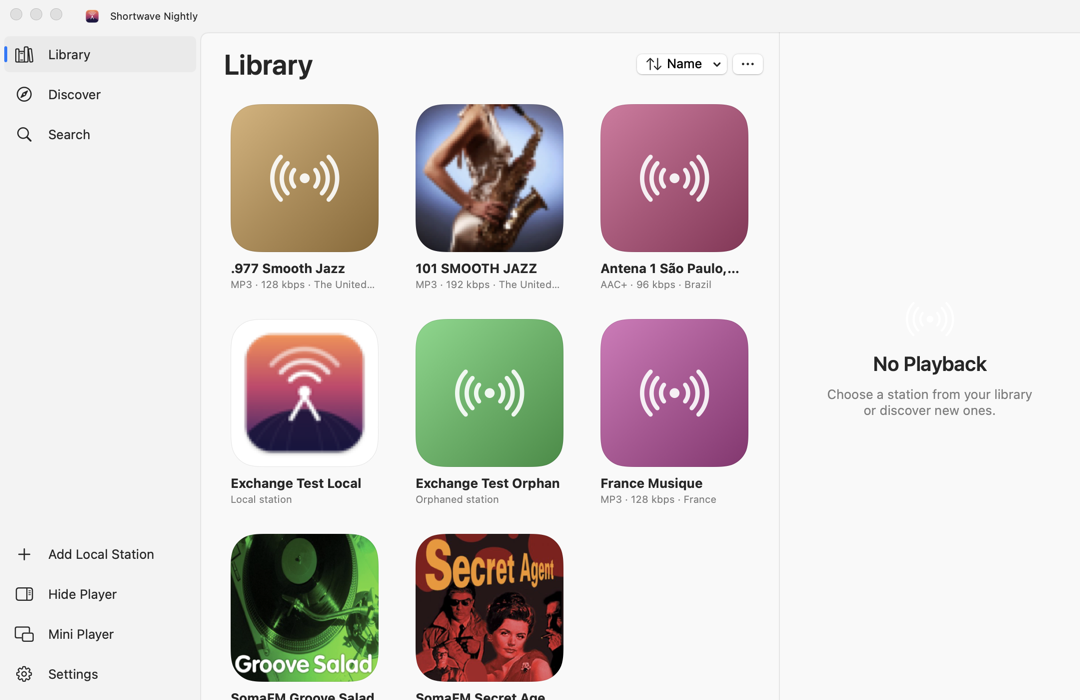
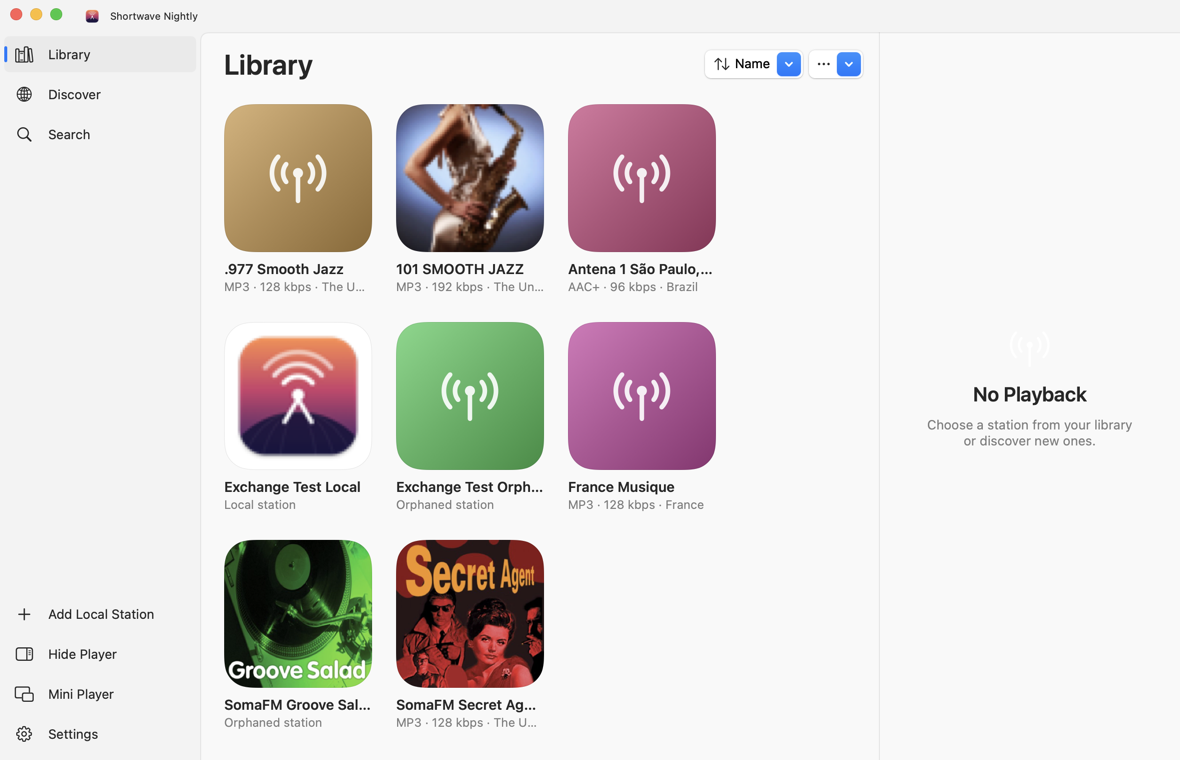
Mac design round 2 from the Windows review; library refresh race fix
From the Windows session's review (docs/MAC-WINDOWS-SYNC.md, "Mac: response to the review"):
- antenna glyph for placeholders and empty states, with tertiary glyph colour
- globe for Discover
- fixed 164-wide cards with 8/12 gaps, aligned to the leading edge; names 14 semibold
- large header and filter controls, and a chevron on More
- accent fill using WinUI's dark-mode rule (lighter shade, black glyph); accent-tinted volume slider
- an Add Local Station sheet title; a 640-wide station details sheet
- a mini player fitted to its content (92 pt)
- Screenshot runs draw at 1180×760 with the window active, then put the shared window frame back.
- refreshLibrary only updates the stations it asked about, so stations imported while the request
  was out aren't marked orphaned (the same fix as on Windows).
- The Mac now reads windows-export.json: readsWindowsExport passes, and exchange-test.sh imports it
  into the real app (3 stations, 1 cover).

Claude-Session: https://claude.ai/code/session_01T34dYzQtMW3DgCzMFdBgwc

diff --git a/Sources/Shortwave/Views/PlayerViews.swift b/Sources/Shortwave/Views/PlayerViews.swift
@@ -40,7 +40,7 @@ struct PlayerPanel: View {
                 .frame(maxWidth: .infinity)
             }
         } else {
-            EmptyState(symbol: "dot.radiowaves.left.and.right", title: "No Playback",
+            EmptyState(symbol: "antenna.radiowaves.left.and.right", title: "No Playback",
                        text: "Choose a station from your library or discover new ones.")
                 .frame(maxWidth: 260)
                 .frame(maxWidth: .infinity)
@@ -82,13 +82,13 @@ struct PlaybackControls: View {
             // Accent-filled round button, like the Windows app's.
             Button { player.togglePlayback() } label: {
                 ZStack {
-                    Circle().fill(player.station == nil ? AnyShapeStyle(.quaternary) : AnyShapeStyle(.tint))
+                    Circle().fill(player.station == nil ? AnyShapeStyle(.quaternary) : AnyShapeStyle(Fluent.accentFill))
                     if player.state == .loading {
-                        ProgressView().controlSize(large ? .regular : .small).tint(.white)
+                        ProgressView().controlSize(large ? .regular : .small).tint(Fluent.onAccent)
                     } else if player.isPlaying {
-                        RoundedRectangle(cornerRadius: 2).fill(.white).frame(width: large ? 16 : 10, height: large ? 16 : 10)
+                        RoundedRectangle(cornerRadius: 2).fill(Fluent.onAccent).frame(width: large ? 16 : 10, height: large ? 16 : 10)
                     } else {
-                        Image(systemName: "play.fill").font(.system(size: large ? 20 : 13, weight: .bold)).foregroundStyle(.white)
+                        Image(systemName: "play.fill").font(.system(size: large ? 20 : 13, weight: .bold)).foregroundStyle(Fluent.onAccent)
                             .offset(x: large ? 2 : 1)
                     }
                 }
@@ -119,6 +119,7 @@ struct VolumeControl: View {
             .buttonStyle(.plain)
             .help(player.isMuted ? "Unmute" : "Mute")
             Slider(value: $player.volume, in: 0...1)
+                .tint(.accentColor)
                 .frame(width: large ? 120 : 90)
                 .controlSize(.small)
                 .accessibilityLabel("Volume")
@@ -250,7 +251,8 @@ struct MiniPlayerWindow: View {
                 .frame(height: 28)
             MiniPlayer()
         }
-        .background(.regularMaterial)
-        .ignoresSafeArea(.container, edges: .top)
+        // The caption sits in the title bar's 28 pt, so the window is only as tall as its content.
+        .padding(.top, -28)
+        .background(.regularMaterial, ignoresSafeAreaEdges: .all)
     }
 }

diff --git a/Sources/Shortwave/Views/StationViews.swift b/Sources/Shortwave/Views/StationViews.swift
@@ -33,7 +33,7 @@ struct StationCover: View {
         return LinearGradient(colors: [Color(hue: stable, saturation: 0.45, brightness: 0.85),
                                        Color(hue: stable, saturation: 0.65, brightness: 0.55)],
                               startPoint: .topLeading, endPoint: .bottomTrailing)
-            .overlay(Image(systemName: "dot.radiowaves.left.and.right")
+            .overlay(Image(systemName: "antenna.radiowaves.left.and.right")
                 .font(.system(size: size * 0.36, weight: .medium))
                 .foregroundStyle(.white.opacity(0.9)))
     }
@@ -73,14 +73,14 @@ struct StationCard: View {
                         Image(systemName: "speaker.wave.2.fill").font(.caption).foregroundStyle(.tint)
                             .symbolEffect(.variableColor.iterative, isActive: app.player.state == .playing)
                     }
-                    Text(station.name).font(.headline).lineLimit(1)
+                    Text(station.name).font(.system(size: 14, weight: .semibold)).lineLimit(1)
                 }
-                Text(cardSubtitle).font(.caption).foregroundStyle(.secondary).lineLimit(1)
+                Text(cardSubtitle).font(.system(size: 12)).foregroundStyle(.secondary).lineLimit(1)
             }
             .frame(width: 148, alignment: .leading)
         }
         .padding(8)
-        .background(RoundedRectangle(cornerRadius: 14, style: .continuous).fill(hovering ? Color.primary.opacity(0.06) : .clear))
+        .background(RoundedRectangle(cornerRadius: 14, style: .continuous).fill(hovering ? Fluent.subtle : .clear))
         .contentShape(Rectangle())
         .onHover { hovering = $0 }
         .onTapGesture(count: 2) { app.play(station) }
@@ -124,7 +124,7 @@ struct StationMenu: View {
 struct StationGrid: View {
     let stations: [Station]
     var body: some View {
-        LazyVGrid(columns: [GridItem(.adaptive(minimum: 164, maximum: 200), spacing: 8, alignment: .top)], alignment: .leading, spacing: 12) {
+        LazyVGrid(columns: [GridItem(.adaptive(minimum: 164, maximum: 164), spacing: 8, alignment: .top)], alignment: .leading, spacing: 12) {
             ForEach(stations) { StationCard(station: $0) }
         }
     }

diff --git a/Sources/Shortwave/Views/Fluent.swift b/Sources/Shortwave/Views/Fluent.swift
@@ -32,6 +32,16 @@ enum Fluent {
     /// DividerStrokeColorDefault.
     static let divider = dynamic(light: black(0.08), dark: white(0.08))
 
+    /// TextFillColorTertiary: empty-state icons and chevrons.
+    static let tertiaryText = dynamic(light: black(0.447), dark: white(0.53))
+    /// AccentFillColorDefault: the accent, but the lighter shade in dark mode (WinUI's rule), so
+    /// glyphs on it are white in light mode and black in dark mode.
+    static let accentFill = Color(nsColor: NSColor(name: nil) { a in
+        let accent = NSColor.controlAccentColor.usingColorSpace(.sRGB) ?? .systemBlue
+        return a.bestMatch(from: [.darkAqua, .aqua]) == .darkAqua ? accent.blended(withFraction: 0.45, of: .white) ?? accent : accent
+    })
+    static let onAccent = dynamic(light: .white, dark: .black)
+
     static let titleFont = Font.system(size: 28, weight: .semibold)
     static let subtitleFont = Font.system(size: 20, weight: .semibold)
 }
@@ -45,7 +55,7 @@ struct PageHeader<Trailing: View>: View {
         HStack(spacing: 16) {
             Text(title).font(Fluent.titleFont).lineLimit(1).fixedSize()
             Spacer(minLength: 0)
-            HStack(spacing: 6) { trailing }
+            HStack(spacing: 6) { trailing }.controlSize(.large)
         }
         .frame(minHeight: 40)
         .padding(EdgeInsets(top: 12, leading: 24, bottom: 8, trailing: 16))
@@ -90,7 +100,7 @@ struct EmptyState<Actions: View>: View {
 
     var body: some View {
         VStack(spacing: 10) {
-            Image(systemName: symbol).font(.system(size: iconSize, weight: .light)).foregroundStyle(.tertiary)
+            Image(systemName: symbol).font(.system(size: iconSize, weight: .light)).foregroundStyle(Fluent.tertiaryText)
                 .padding(.bottom, 2)
             Text(title).font(Fluent.subtitleFont).multilineTextAlignment(.center)
             if !text.isEmpty {

diff --git a/Sources/Shortwave/Model/Screenshot.swift b/Sources/Shortwave/Model/Screenshot.swift
@@ -17,14 +17,29 @@ enum Screenshot {
                 openMain()
             }
         }
-        DispatchQueue.main.asyncAfter(deadline: .now() + max(delay, 2)) {
+        // Render at the Windows app's size (1180×760) with the window active, so accent-coloured
+        // controls draw as they do in use. Test copies share the installed app's saved window
+        // frame, so the old frame is put back before quitting.
+        var savedFrame: NSRect?
+        DispatchQueue.main.asyncAfter(deadline: .now() + 1.8) {
+            NSApp.activate()
+            guard let w = mainWindow() else { return }
+            w.makeKeyAndOrderFront(nil)
+            if !Diagnostics.openMiniPlayer {
+                savedFrame = w.frame
+                w.setFrame(NSRect(x: w.frame.minX, y: w.frame.maxY - 760, width: 1180, height: 760), display: true)
+            }
+        }
+        DispatchQueue.main.asyncAfter(deadline: .now() + max(delay, 2.5)) {
             if capture(to: URL(fileURLWithPath: path)) {
                 Diagnostics.log("screenshot \(path)")
             } else {
                 Diagnostics.log("screenshot failed: windows \(NSApp.windows.map { "\(type(of: $0)) \($0.frame)" })")
             }
-            // exit, not terminate: an open sheet can hold up a normal quit.
-            exit(0)
+            if let f = savedFrame { mainWindow()?.setFrame(f, display: false) }
+            // Let the window save its restored frame, then exit (not terminate: an open sheet can
+            // hold up a normal quit).
+            DispatchQueue.main.asyncAfter(deadline: .now() + 0.3) { exit(0) }
         }
     }
 

diff --git a/Sources/Shortwave/Views/Pages.swift b/Sources/Shortwave/Views/Pages.swift
@@ -11,7 +11,7 @@ struct LibraryPage: View {
                 LibraryMoreMenu()
             }
             if app.library.isEmpty {
-                EmptyState(symbol: "dot.radiowaves.left.and.right", title: "Your Library Is Empty",
+                EmptyState(symbol: "antenna.radiowaves.left.and.right", title: "Your Library Is Empty",
                            text: "Discover over 50,000 public stations and add the ones you like.", iconSize: 48) {
                     Button("Discover New Stations") { app.page = .discover }.buttonStyle(.borderedProminent)
                     Button("Add Local Station") { app.showingAddStation = true }
@@ -37,7 +37,6 @@ struct LibraryMoreMenu: View {
         } label: {
             Image(systemName: "ellipsis")
         }
-        .menuIndicator(.hidden)
         .fixedSize()
         .help("Import or export your saved stations")
         .accessibilityLabel("More")
@@ -292,6 +291,7 @@ struct SearchPage: View {
             }
           }
           .labelsHidden()
+          .controlSize(.large)
           .padding(EdgeInsets(top: 0, leading: 24, bottom: 8, trailing: 16))
         }
     }

diff --git a/Sources/Shortwave/Model/AppModel.swift b/Sources/Shortwave/Model/AppModel.swift
@@ -21,7 +21,7 @@ enum Page: String, Hashable, CaseIterable, Identifiable {
     var symbol: String {
         switch self {
         case .library: "books.vertical"
-        case .discover: "safari"
+        case .discover: "globe"
         case .search: "magnifyingglass"
         case .settings: "gearshape"
         }
@@ -271,9 +271,12 @@ final class AppModel {
         let ids = library.filter { !$0.isLocal }.map(\.id)
         guard !ids.isEmpty, let fresh = try? await api.stations(byUUIDs: ids) else { return }
         let byID = Dictionary(fresh.map { ($0.id, $0) }, uniquingKeysWith: { a, _ in a })
+        let asked = Set(ids)
         var changed = false
         library = library.map { s in
-            guard !s.isLocal else { return s }
+            // Stations added while the request was out (an import) weren't asked about: leave them
+            // to their own refresh rather than calling them orphaned.
+            guard !s.isLocal, asked.contains(s.id) else { return s }
             if let f = byID[s.id] {
                 let r = s.refreshed(from: f)
                 if r != s { changed = true }

diff --git a/Sources/Shortwave/Views/Sheets.swift b/Sources/Shortwave/Views/Sheets.swift
@@ -97,7 +97,7 @@ struct StationDetailSheet: View {
             }
             .formStyle(.grouped)
         }
-        .frame(width: 520, height: 600)
+        .frame(width: 640, height: 620)
         .toolbar {
             ToolbarItem(placement: .cancellationAction) { Button("Close") { dismiss() } }
         }
@@ -133,7 +133,9 @@ struct LocalStationSheet: View {
     @ViewState private var loaded = false
 
     var body: some View {
-        VStack(spacing: 0) {
+        VStack(alignment: .leading, spacing: 0) {
+            Text(editing == nil ? "Add Local Station" : "Edit Station").font(Fluent.subtitleFont)
+                .padding(EdgeInsets(top: 20, leading: 20, bottom: 0, trailing: 20))
             Form {
                 Section {
                     TextField("Name", text: $name)

diff --git a/docs/MAC-WINDOWS-SYNC.md b/docs/MAC-WINDOWS-SYNC.md
@@ -231,3 +231,34 @@ keep the Mac's blue) and station artwork or results that changed between runs. V
     pushes Library down to y≈93. The Mac has none, which is right for macOS: don't add one.
 25. **Selected item.** Both use SubtleFillColorSecondary with a 4 radius and a 3×16 accent pill at
     the left. Matches.
+
+### Mac: response to the review
+
+Merged at ecb7263. The Mac's `readsWindowsExport` test passes, and `scripts/exchange-test.sh` imports
+`windows-export.json` into the real app: 3 added, 1 cover. The refresh race you found was in the Mac
+too, and is fixed the same way: a refresh only touches the stations it asked about.
+
+| # | Result |
+|---|---|
+| 1 | Fixed for renders. `-screenshot` runs now size the window to 1180×760 and activate it before drawing, then put the old frame back. The size you saw was a remembered frame (test copies share the installed app's), so `.defaultSize(1180, 760)` still applies to a fresh install. |
+| 2 | Kept at 28 semibold. That's the right weight; SF Pro just draws semibold heavier than Segoe UI Variable. |
+| 3 | Fixed. Header controls use `.controlSize(.large)` (about 28 pt, the Mac's large size), and More has a chevron. |
+| 4 | Fixed. `antenna.radiowaves.left.and.right` everywhere: cover placeholder, No Playback, empty library. |
+| 5 | Fixed. Empty-state glyphs use TextFillColorTertiary values (`Fluent.tertiaryText`). |
+| 6 | Fixed. Discover uses `globe`. |
+| 7 | Fixed. Cells are a fixed 164 wide with 8/12 gaps, aligned to the leading edge. |
+| 8 | Fixed. Name 14 semibold, subtitle 12 secondary. |
+| 9 | Already as described: the card hover is SubtleFillColorSecondary with radius 14, and the round play button is 36, 8 from the corner. |
+| 10 | Fixed size: filters use `.controlSize(.large)`. They keep the Mac's pop-up ⇕ indicator. |
+| 11 | Kept, per your note. |
+| 12 | Done. The WinUI rule is in place: the accent in light mode and its lighter shade in dark mode, with a white glyph in light and a black one in dark (`Fluent.accentFill` / `Fluent.onAccent`). |
+| 13, 16 | The volume slider is tinted with the accent. The grey in the renders was macOS's inactive-window look for sliders, switches and prominent buttons. Renders now activate the window, but the system can refuse that while another app is in front. |
+| 14 | Already capped at 2 lines. |
+| 17, 18, 19 | Kept as Mac controls. |
+| 20 | Fixed. The sheet has a "Add Local Station" / "Edit Station" title (20 semibold). The labels stay beside the fields (the Mac form). |
+| 21 | The details sheet is 640 wide now. Play is the accent-filled button whenever the window is active. |
+| 22 | Fixed. The mini player is 92 pt tall: its caption sits in the 28 pt title bar and nothing is left below. |
+| 23–25 | No change needed. |
+
+Re-rendered set: `docs/design/mac/`. If you have the time, please do one more pass and add any
+remaining differences under a "Round 2" heading.
